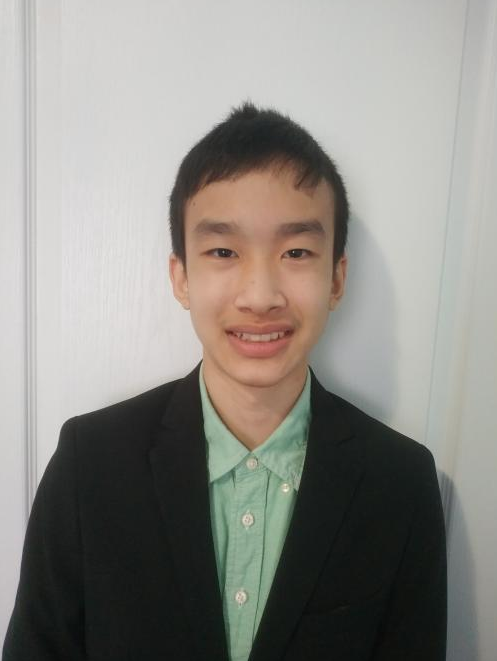
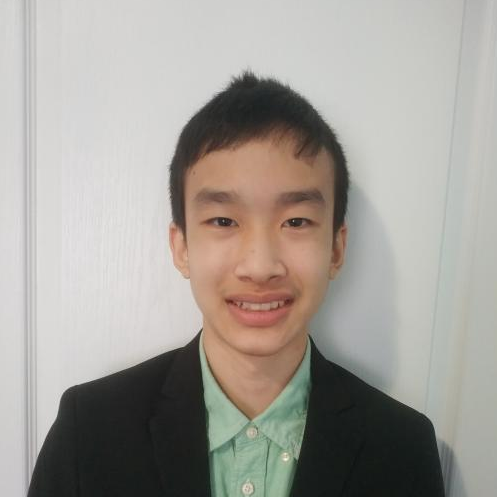
Edited home section

Changed region(s): [[0.0, 0.1811, 1.0, 1.0], [0.4527, 0.1207, 0.6036, 0.1811], [0.6036, 0.1811, 0.6338, 0.2113]]

diff --git a/src/app/home/home.component.scss b/src/app/home/home.component.scss
@@ -1,6 +1,7 @@
 .container {
   display: flex;
   flex-direction: row;
+  background-color: lightgray;
 }
 
 h1 {
@@ -26,6 +27,11 @@ h2 {
 }
 
 img {
+  object-fit: cover;
+}
+
+.img-container {
+  display: flex;
   width: 25vw;
   height: 25vw;
   object-fit: cover;
@@ -33,4 +39,11 @@ img {
   border-radius: 50%;
   box-shadow: 0 5px 15px rgba(0, 0, 0, 0.5);
   cursor: pointer;
+  transition: transform .2s;
+  overflow: hidden;
+}
+
+.img-container:hover {
+  box-shadow: 0 10px 20px rgba(0, 0, 0, 0.6);
+  transform: scale(1.1);
 }

diff --git a/src/app/home/home.component.html b/src/app/home/home.component.html
@@ -7,6 +7,8 @@
     </div>
   </div>
   <div class="flex-item">
-    <img data-aos="fade-down" data-aos-duration="1100" src="assets/jake.png">
+    <div data-aos="fade-down" data-aos-duration="1300" class="img-container">
+      <img src="assets/jake.png">
+    </div>
   </div>
 </div>

diff --git a/src/app/about/about.component.html b/src/app/about/about.component.html
@@ -1,3 +1,9 @@
 <div class="container">
-  Component
+  <mat-toolbar color="primary" class="about-toolbar">
+    <div class="spacer"></div>
+    <mat-icon>person_filled</mat-icon>
+    <h1>About Me</h1>
+    <div class="spacer"></div>
+  </mat-toolbar>
+
 </div>

diff --git a/src/app/about/about.component.scss b/src/app/about/about.component.scss
@@ -1,0 +1,4 @@
+.mat-toolbar.mat-primary {
+  background: #fff;
+  color: #0ff;
+}
